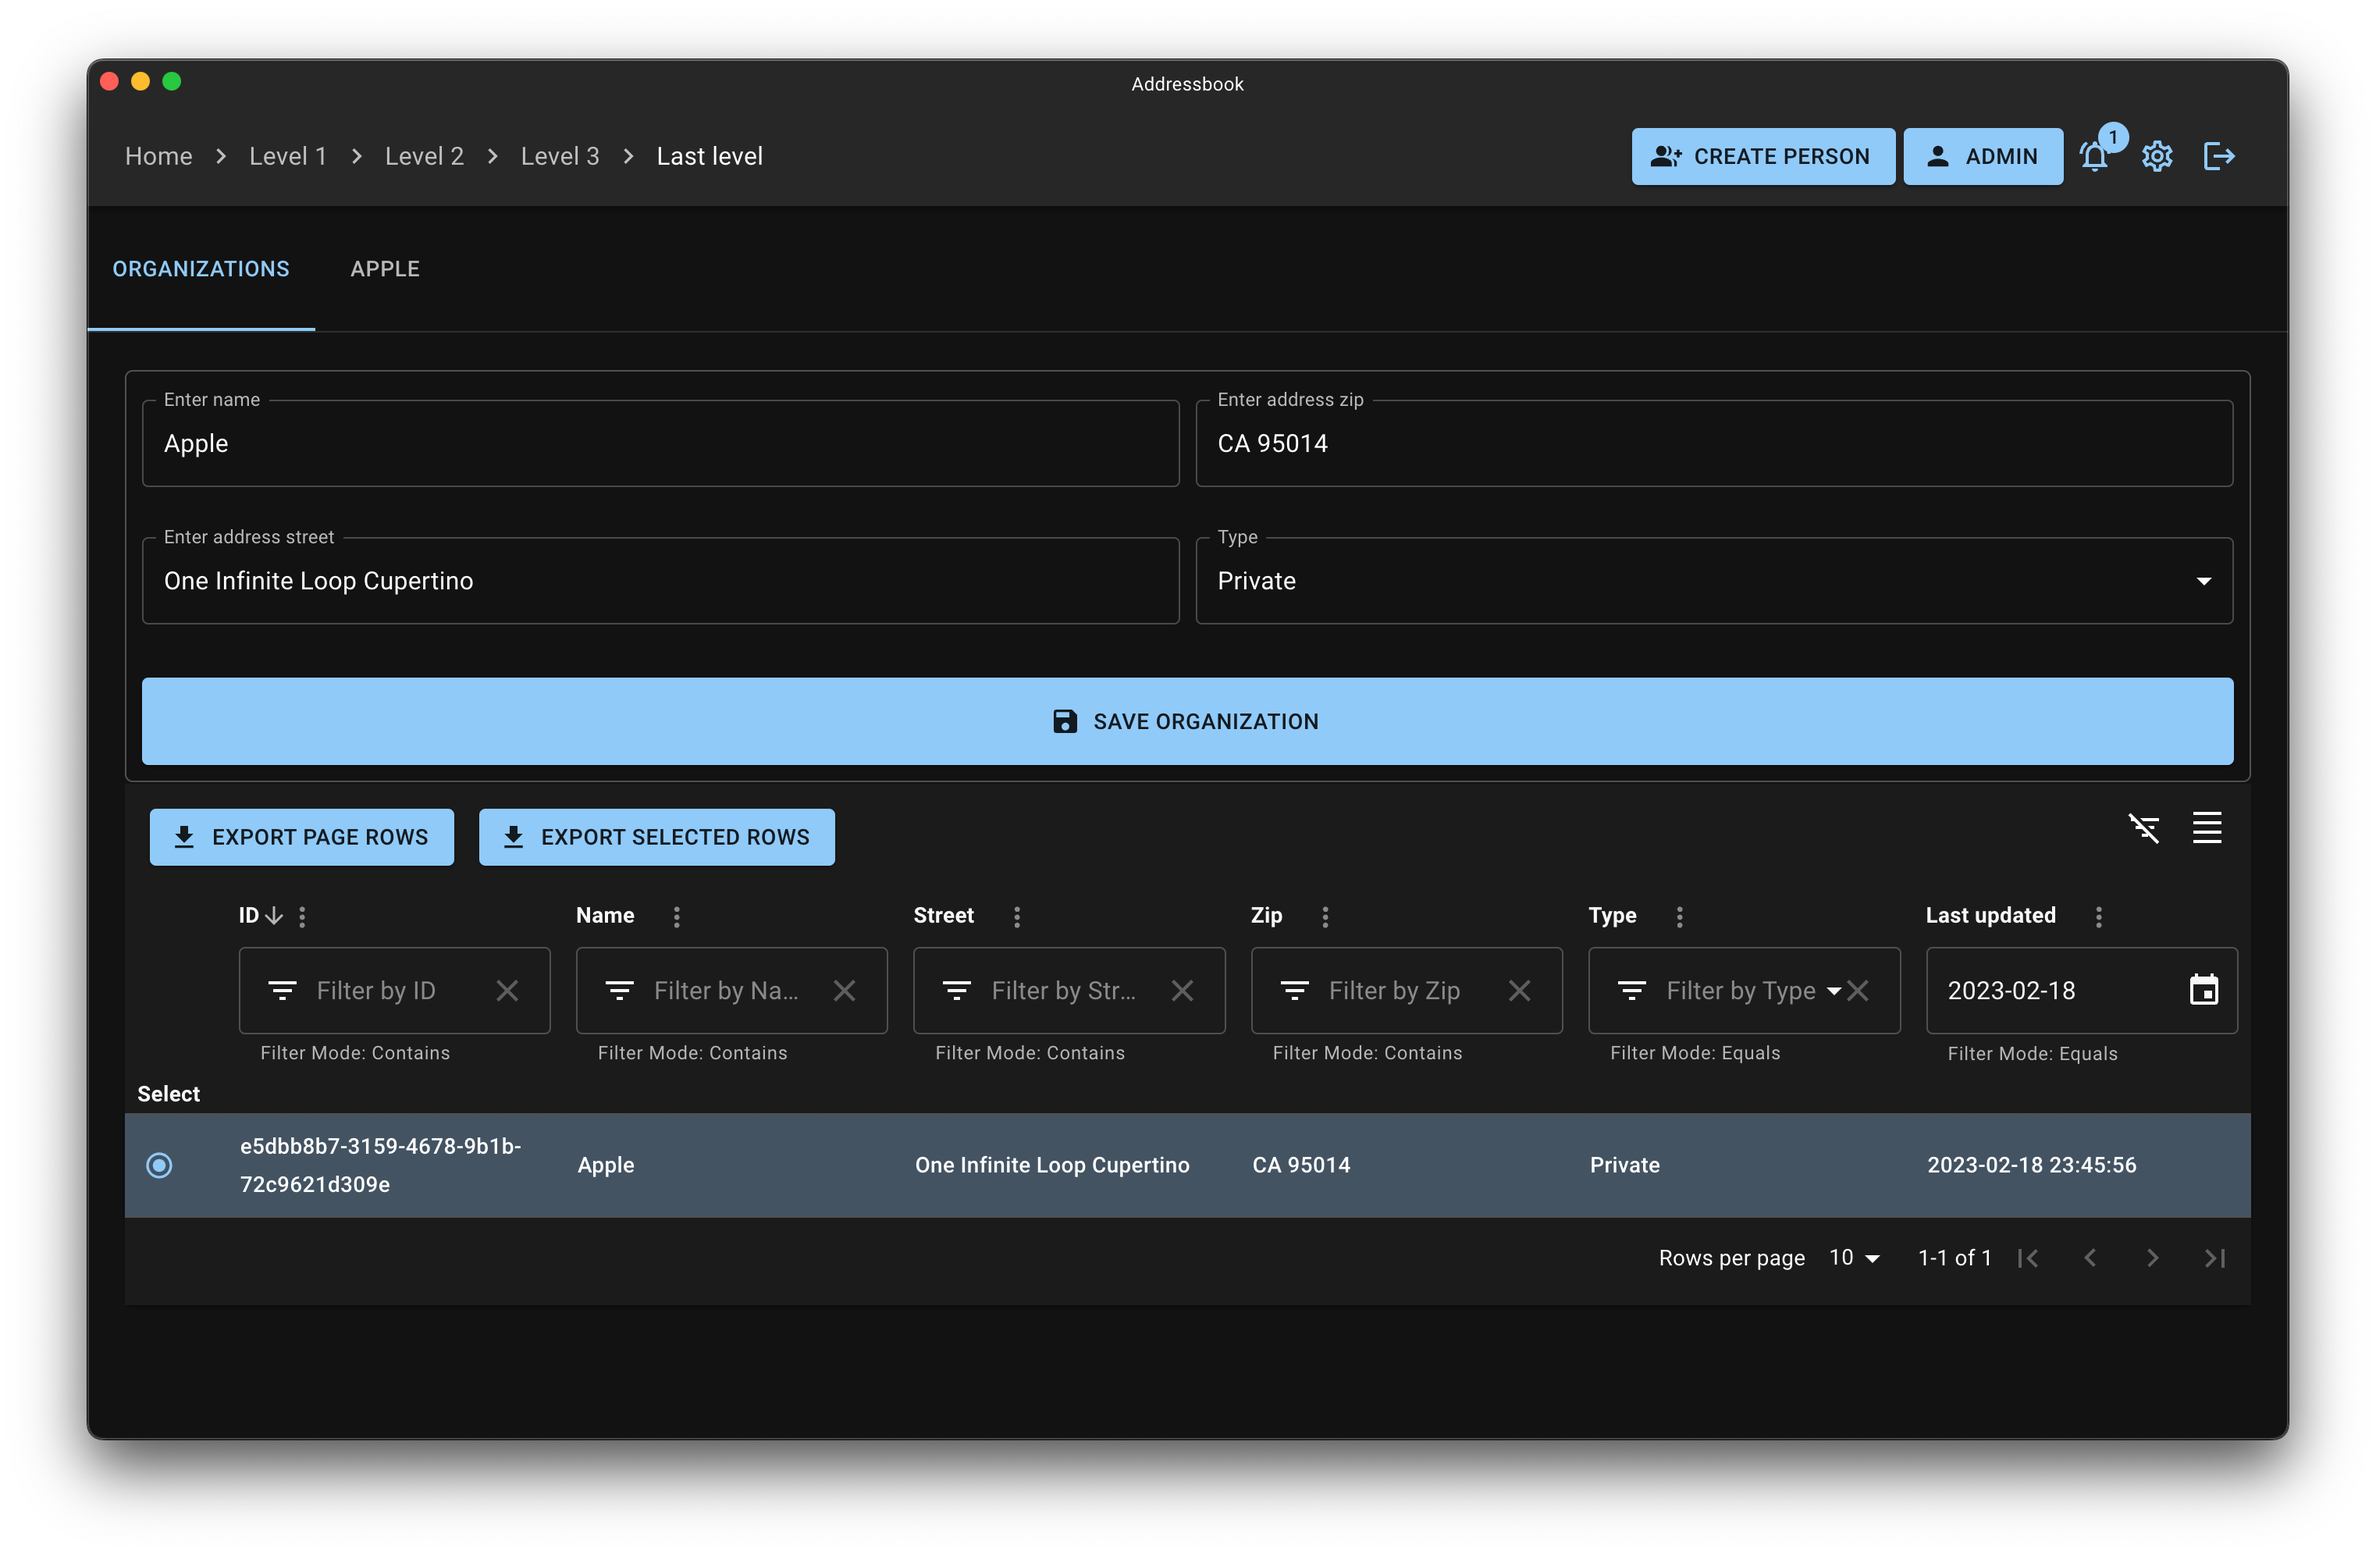
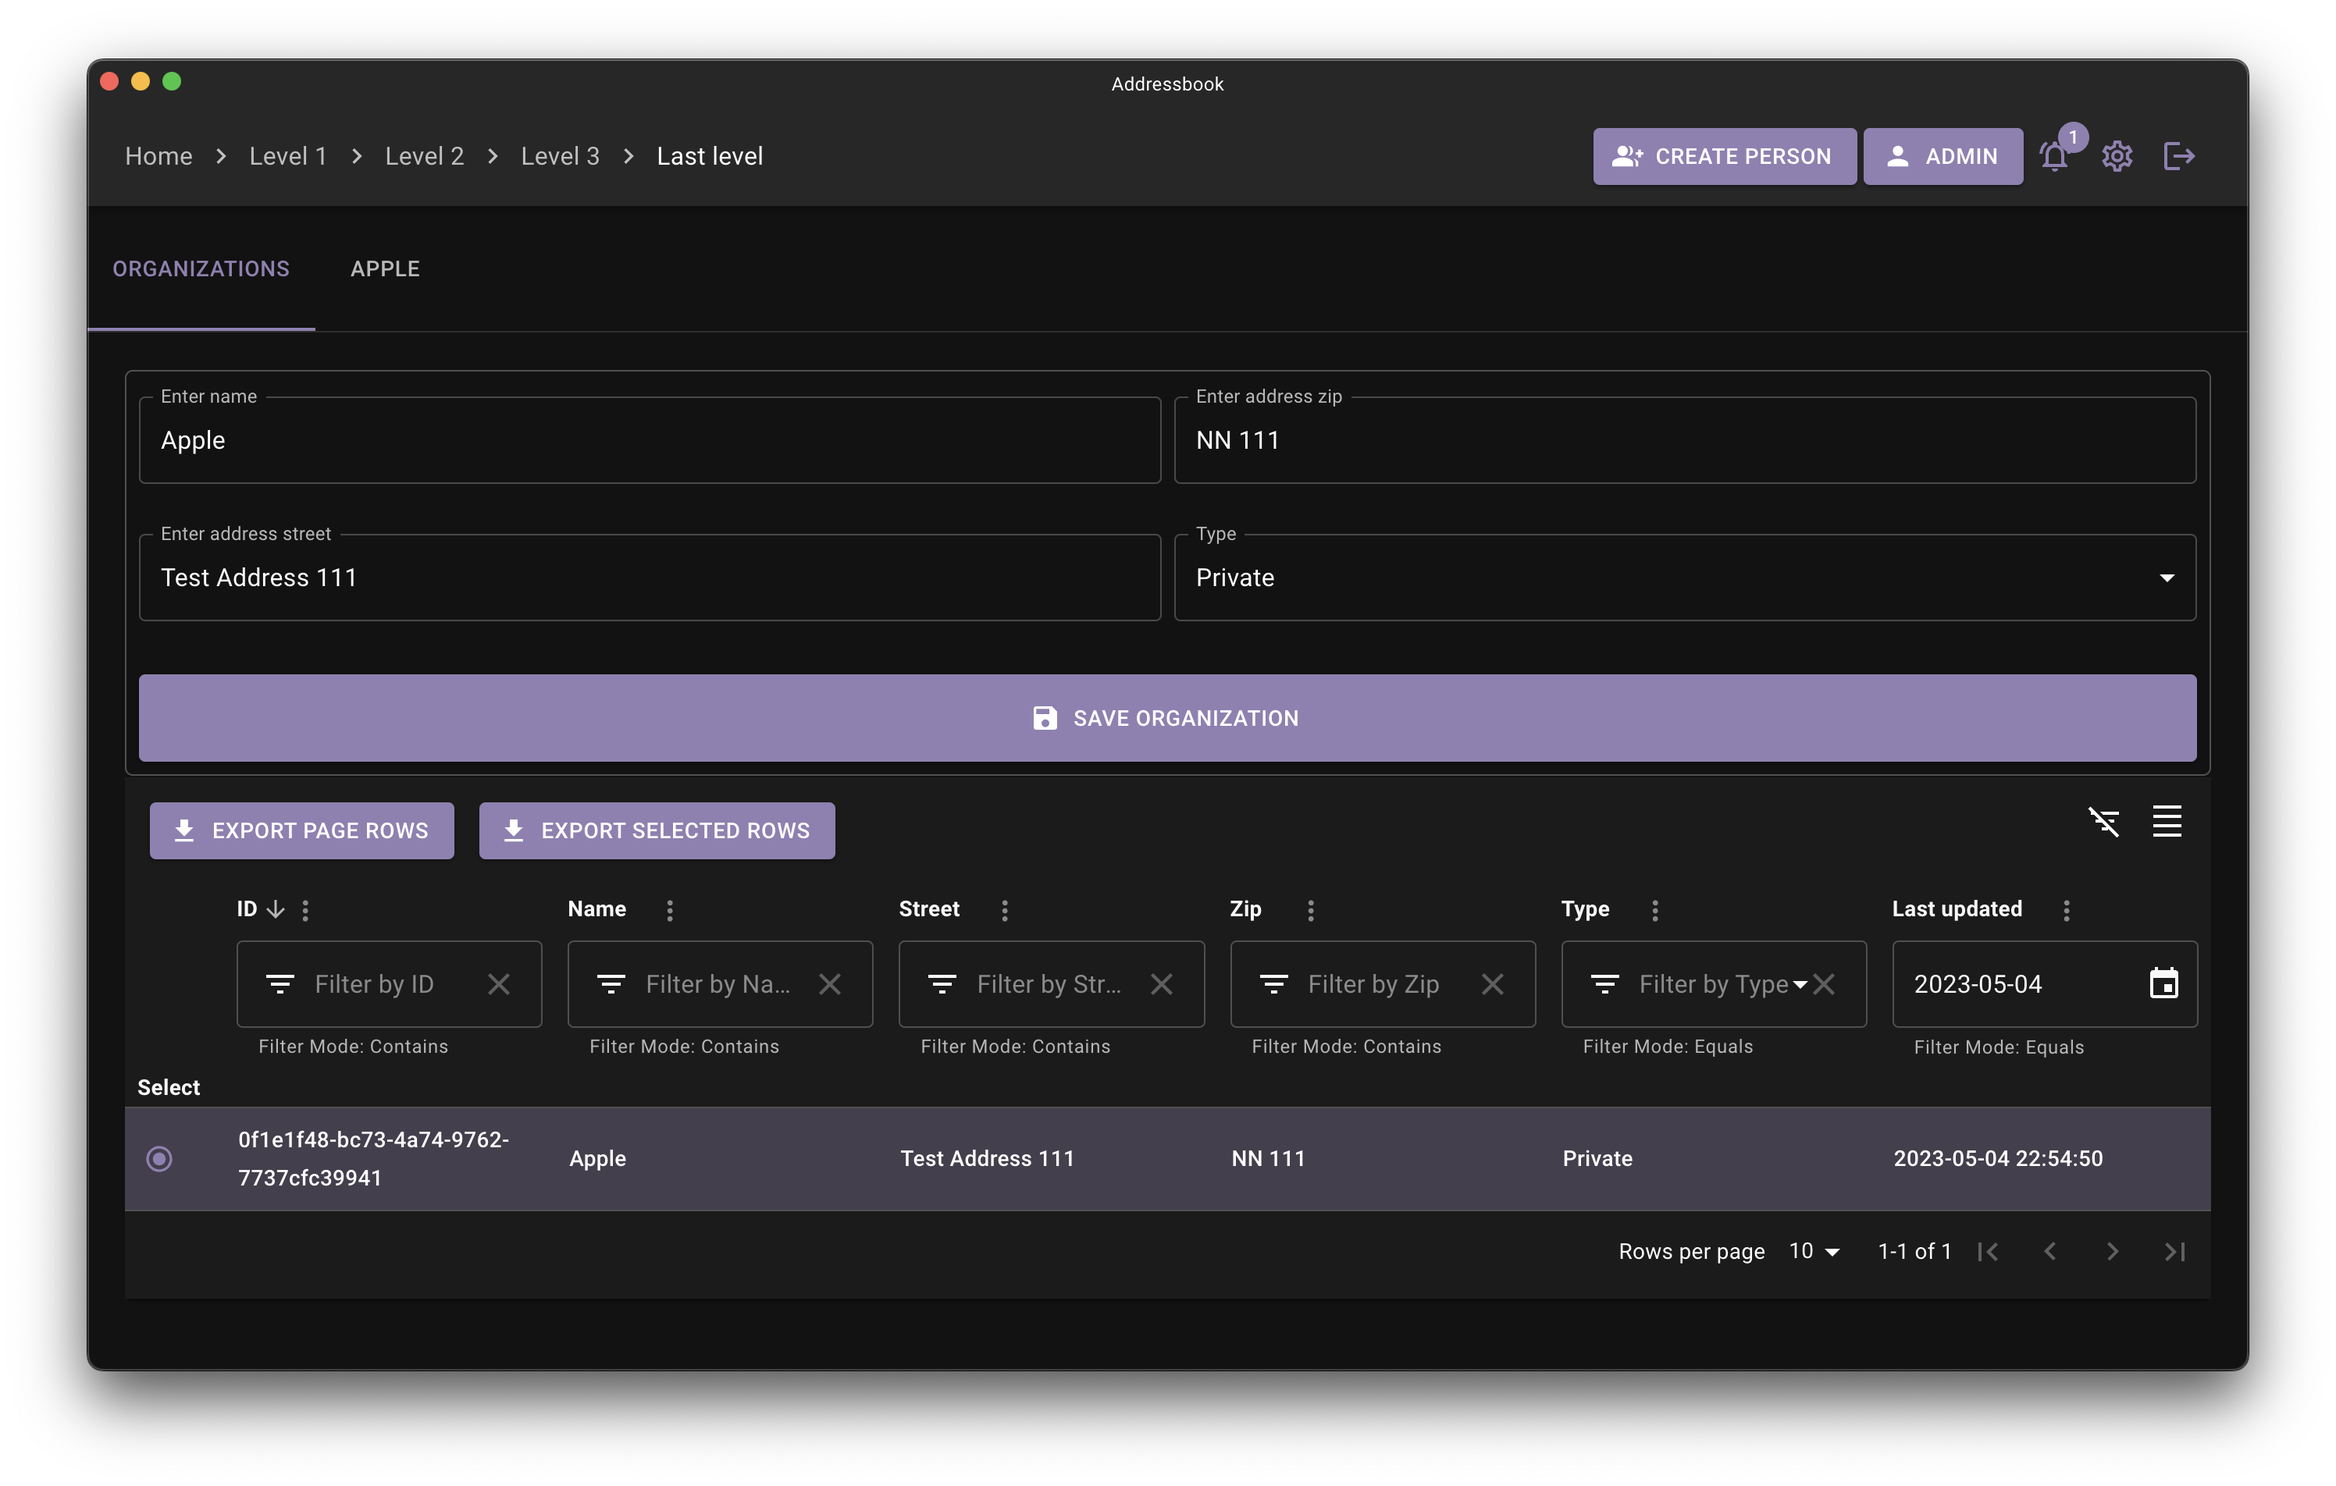
Refactoring

diff --git a/src/Common/App.js b/src/Common/App.js
@@ -2,7 +2,6 @@ import React from "react";
 import {createTheme, ThemeProvider} from "@mui/material/styles";
 import CssBaseline from "@mui/material/CssBaseline";
 import {connect} from "react-redux";
-import {purple} from "@mui/material/colors";
 import {Alert, AlertTitle, Collapse, Drawer, Snackbar} from "@mui/material";
 import * as CommonActions from "../Pages/ListActions";
 import DeleteForeverOutlinedIcon from "@mui/icons-material/DeleteForeverOutlined";
@@ -14,11 +13,14 @@ import {TransitionGroup} from "react-transition-group";
 const darkTheme = createTheme({
     palette: {
         mode: "dark",
+        primary: {
+            main: "#917FB3"
+        },
         topButtonColor: {
-            main: "#90caf9"
+            main: "#917FB3"
         },
         topServiceButtonColor: {
-            main: "#90caf9"
+            main: "#917FB3"
         }
     },
 });
@@ -26,10 +28,10 @@ const darkTheme = createTheme({
 const lightTheme = createTheme({
     palette: {
         primary: {
-            main: purple[500]
+            main: "#6200EE"
         },
         topButtonColor: {
-            main: purple[700]
+            main: "#3700B3"
         },
         topServiceButtonColor: {
             main: "#FFFFFF"

diff --git a/src/Table/Table.js b/src/Table/Table.js
@@ -70,8 +70,8 @@ export class TableInner extends React.Component {
                             title={Table.html2text(cell.getValue())}>{Table.html2text(cell.getValue())}</div>
             }
         if (fieldName === "salary") {
-            let targetBoxColor = this.props.useDarkTheme ? "#90caf9" : "#9c27b0"
-            let targetTextColor = this.props.useDarkTheme ? "#000000" : "#FFFFFF"
+            let targetBoxColor = this.props.useDarkTheme ? "#917FB3" : "#3700B3"
+            let targetTextColor = this.props.useDarkTheme ? "#FFFFFF" : "#FFFFFF"
             return function Formatter({cell}) {
                 return <Box
                     sx={{
@@ -176,7 +176,7 @@ export class TableInner extends React.Component {
                 columns={columns}
                 enableRowSelection
                 enableMultiRowSelection={this.props.selectMode === "multi"}
-                positionToolbarAlertBanner={this.props.selectMode === "multi" ? "bottom" : "none"}
+                positionToolbarAlertBanner={"none"}
                 onColumnFiltersChange={this.onFilterChange}
                 onPaginationChange={this.onPaginationChange}
                 onSortingChange={this.onSortChange}

diff --git a/src/Components/NavBarComponent.js b/src/Components/NavBarComponent.js
@@ -103,8 +103,8 @@ export class NavBarComponentInner extends React.Component {
 
     getRoles = () => {
         const allRoles = [];
-        let targetBoxColor = this.props.useDarkTheme ? "#90caf9" : "#9c27b0"
-        let targetTextColor = this.props.useDarkTheme ? "#000000" : "#FFFFFF"
+        let targetBoxColor = this.props.useDarkTheme ? "#917FB3" : "#3700B3"
+        let targetTextColor = this.props.useDarkTheme ? "#FFFFFF" : "#FFFFFF"
         this.state.roles.forEach((value, index) => {
             if (index === 0)
                 allRoles.push(<Chip key={value} label={value}

diff --git a/src/Pages/MenuForm.js b/src/Pages/MenuForm.js
@@ -1,7 +1,6 @@
 import React from "react";
 import {connect} from "react-redux";
 import {bindActionCreators} from "redux";
-import {Link} from "@mui/material";
 import Button from "@mui/material/Button";
 import * as MenuActions from "./MenuFormActions";
 import * as Utils from "../Common/Utils";

diff --git a/src/Common/style.css b/src/Common/style.css
@@ -61,7 +61,7 @@ th.MuiTableCell-head:first-of-type {
 }
 
 .cet-titlebar {
-    background-color: #9c27b0!important;
+    background-color: #6200EE!important;
 }
 
 @media (prefers-color-scheme: dark) {
